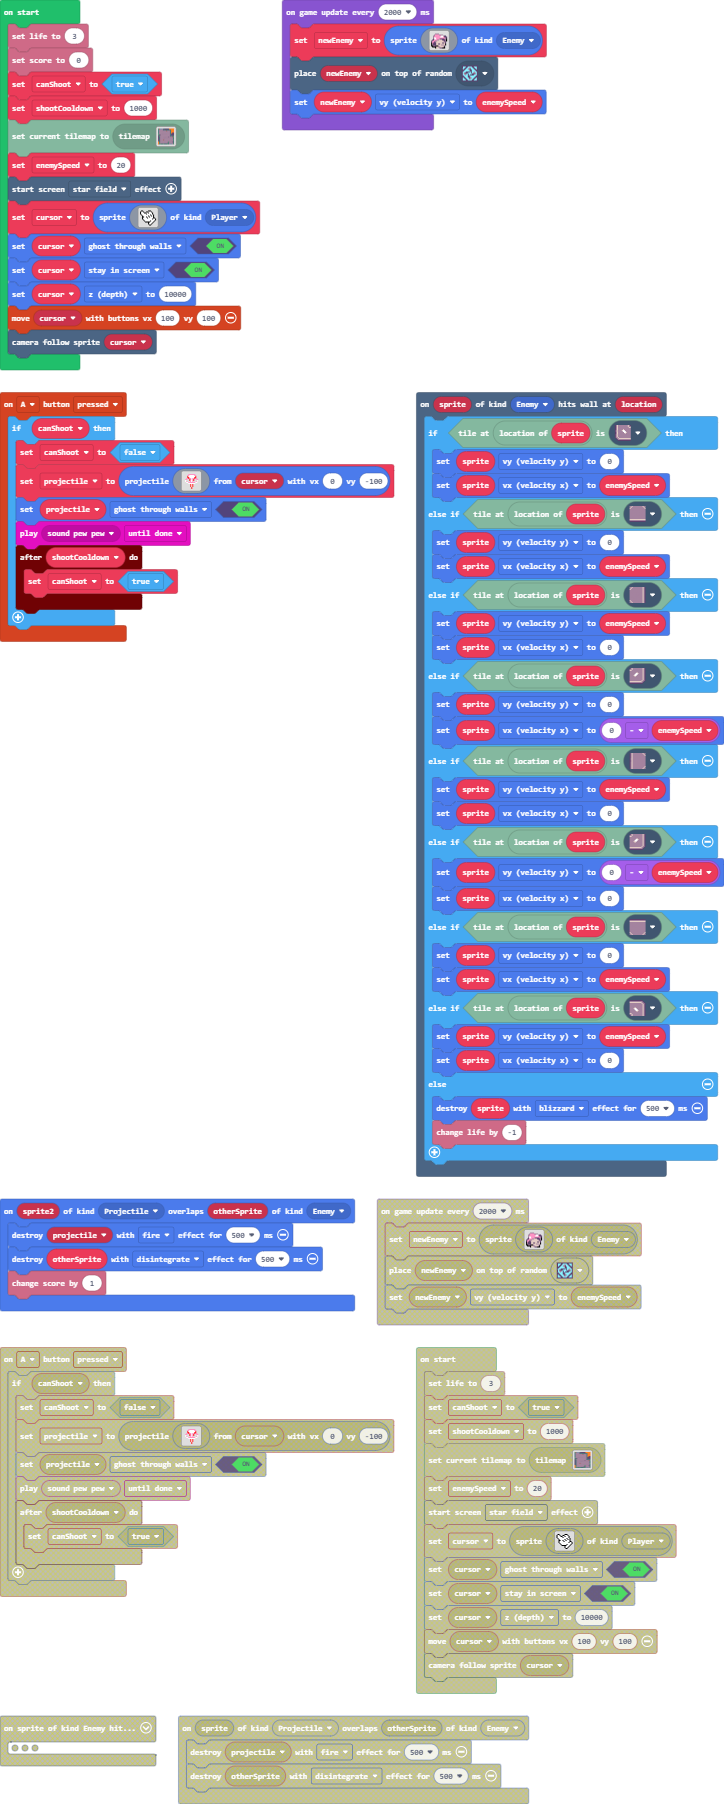
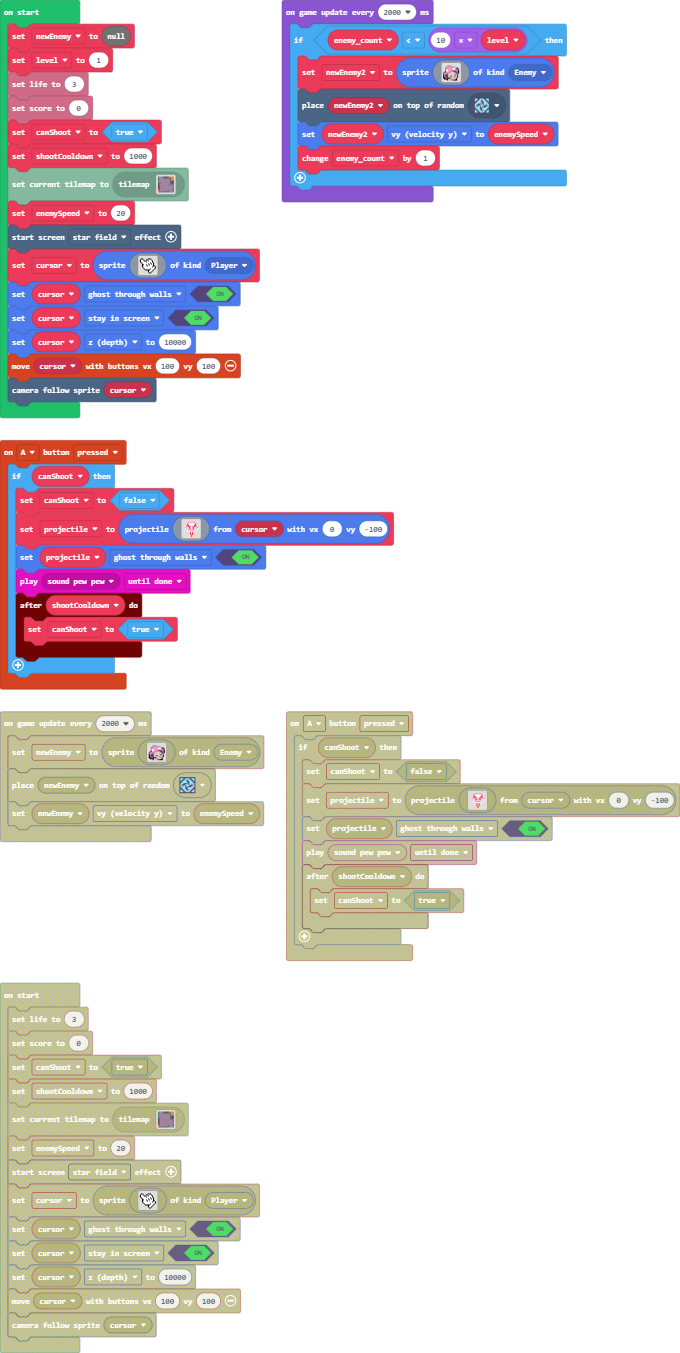
Enemies x level implemented

diff --git a/tilemap.g.ts b/tilemap.g.ts
@@ -128,6 +128,25 @@ namespace myTiles {
 2 2 2 2 2 2 2 2 2 2 2 2 . . 2 2 
 2 2 2 2 2 2 2 2 2 2 2 2 . . 2 2 
 `, [myTiles.transparency16,sprites.dungeon.floorDark0,sprites.dungeon.greenOuterWest0,sprites.dungeon.greenOuterSouthEast,sprites.dungeon.greenOuterSouth0,sprites.dungeon.greenOuterNorthEast,sprites.dungeon.greenInnerNorthEast,sprites.dungeon.greenOuterSouthWest,sprites.dungeon.greenOuterEast1,sprites.dungeon.greenOuterNorth1,sprites.dungeon.greenInnerSouthWest,sprites.dungeon.greenOuterEast0,sprites.dungeon.greenOuterNorth0,sprites.vehicle.roadIntersection2,sprites.vehicle.roadIntersection4,sprites.vehicle.roadIntersection1,sprites.vehicle.roadIntersection3,sprites.dungeon.greenSwitchUp,sprites.dungeon.greenOuterWest2,sprites.dungeon.greenOuterSouth2,sprites.dungeon.greenOuterEast2,sprites.dungeon.chestClosed,sprites.dungeon.floorDark4,sprites.dungeon.floorDark3,sprites.dungeon.darkGroundSouthWest0,sprites.dungeon.darkGroundSouth,sprites.dungeon.darkGroundNorthEast0,sprites.dungeon.darkGroundEast,sprites.dungeon.darkGroundSouthEast0,sprites.dungeon.hazardLava1,sprites.dungeon.darkGroundNorth,sprites.dungeon.darkGroundNorthWest0,sprites.dungeon.darkGroundCenter,sprites.dungeon.hazardLava0,myTiles.tile2,myTiles.tile5,sprites.vehicle.roadTurn3,sprites.vehicle.roadTurn2,sprites.vehicle.roadTurn4,sprites.vehicle.roadTurn1,myTiles.tile7], TileScale.Sixteen);
+            case "level7":
+            case "level7":return tiles.createTilemap(hex`1000100000000000000000000000000000000000000000000000000000000000000000000000000000000000000000000000000000000000000000000000000000000000000000000000000000000000000000000000000000000000000000000000000000000000000000000000000000000000000000000000000000000000000000000000000000000000000000000000000000000000000000000000000000000000000000000000000000000000000000000000000000000000000000000000000000000000000000000000000000000000000000000000000000000000000000000000000000000000000000000000000000000000000000000000000000000000`, img`
+. . . . . . . . . . . . . . . . 
+. . . . . . . . . . . . . . . . 
+. . . . . . . . . . . . . . . . 
+. . . . . . . . . . . . . . . . 
+. . . . . . . . . . . . . . . . 
+. . . . . . . . . . . . . . . . 
+. . . . . . . . . . . . . . . . 
+. . . . . . . . . . . . . . . . 
+. . . . . . . . . . . . . . . . 
+. . . . . . . . . . . . . . . . 
+. . . . . . . . . . . . . . . . 
+. . . . . . . . . . . . . . . . 
+. . . . . . . . . . . . . . . . 
+. . . . . . . . . . . . . . . . 
+. . . . . . . . . . . . . . . . 
+. . . . . . . . . . . . . . . . 
+`, [myTiles.transparency16], TileScale.Sixteen);
         }
         return null;
     })

diff --git a/main.ts b/main.ts
@@ -61,12 +61,15 @@ scene.onHitWall(SpriteKind.Enemy, function (sprite, location) {
         info.changeLifeBy(-1)
     }
 })
-let newEnemy: Sprite = null
+let newEnemy2: Sprite = null
+let enemy_count = 0
 let projectile: Sprite = null
 let cursor: Sprite = null
 let enemySpeed = 0
 let shootCooldown = 0
 let canShoot = false
+let newEnemy = null
+let level = 1
 info.setLife(3)
 info.setScore(0)
 canShoot = true
@@ -98,24 +101,27 @@ cursor.z = 10000
 controller.moveSprite(cursor, 100, 100)
 scene.cameraFollowSprite(cursor)
 game.onUpdateInterval(2000, function () {
-    newEnemy = sprites.create(img`
-        . . . . . . . . . . . . . . . . 
-        . . . . b b b b . . . . . . . . 
-        . . . b 3 3 3 3 b b b b . . . . 
-        . . b b 3 3 3 3 3 3 1 1 b c c . 
-        . . b 3 3 3 3 3 3 1 1 1 3 c c c 
-        . . b 1 1 3 3 3 3 3 3 3 3 3 b c 
-        . . c 1 1 3 3 3 b c c c c b b f 
-        . c c 3 3 3 b b d d d c c c b f 
-        c b 3 3 b b d d d d d d b c b f 
-        c 3 3 c b d d d d d d d d b c . 
-        f 3 c c c d d d d d d c c d c . 
-        f b c c c d d c c d d d d d f . 
-        f b c c c d d d d d b b b d f . 
-        f f b b c f f b d d d d d c . . 
-        . f f f f d d b b d d d b f . . 
-        . . . . f d d d b c c f f f . . 
-        `, SpriteKind.Enemy)
-    tiles.placeOnRandomTile(newEnemy, assets.tile`myTile0`)
-    newEnemy.vy = enemySpeed
+    if (enemy_count < 10 * level) {
+        newEnemy2 = sprites.create(img`
+            . . . . . . . . . . . . . . . . 
+            . . . . b b b b . . . . . . . . 
+            . . . b 3 3 3 3 b b b b . . . . 
+            . . b b 3 3 3 3 3 3 1 1 b c c . 
+            . . b 3 3 3 3 3 3 1 1 1 3 c c c 
+            . . b 1 1 3 3 3 3 3 3 3 3 3 b c 
+            . . c 1 1 3 3 3 b c c c c b b f 
+            . c c 3 3 3 b b d d d c c c b f 
+            c b 3 3 b b d d d d d d b c b f 
+            c 3 3 c b d d d d d d d d b c . 
+            f 3 c c c d d d d d d c c d c . 
+            f b c c c d d c c d d d d d f . 
+            f b c c c d d d d d b b b d f . 
+            f f b b c f f b d d d d d c . . 
+            . f f f f d d b b d d d b f . . 
+            . . . . f d d d b c c f f f . . 
+            `, SpriteKind.Enemy)
+        tiles.placeOnRandomTile(newEnemy2, assets.tile`myTile0`)
+        newEnemy2.vy = enemySpeed
+        enemy_count += 1
+    }
 })

diff --git a/main.py b/main.py
@@ -77,12 +77,15 @@ def on_hit_wall(sprite, location):
         info.change_life_by(-1)
 scene.on_hit_wall(SpriteKind.enemy, on_hit_wall)
 
-newEnemy: Sprite = None
+newEnemy2: Sprite = None
+enemy_count = 0
 projectile: Sprite = None
 cursor: Sprite = None
 enemySpeed = 0
 shootCooldown = 0
 canShoot = False
+newEnemy = None
+level = 1
 info.set_life(3)
 info.set_score(0)
 canShoot = True
@@ -118,28 +121,30 @@ controller.move_sprite(cursor, 100, 100)
 scene.camera_follow_sprite(cursor)
 
 def on_update_interval():
-    global newEnemy
-    newEnemy = sprites.create(img("""
-            . . . . . . . . . . . . . . . . 
-                    . . . . b b b b . . . . . . . . 
-                    . . . b 3 3 3 3 b b b b . . . . 
-                    . . b b 3 3 3 3 3 3 1 1 b c c . 
-                    . . b 3 3 3 3 3 3 1 1 1 3 c c c 
-                    . . b 1 1 3 3 3 3 3 3 3 3 3 b c 
-                    . . c 1 1 3 3 3 b c c c c b b f 
-                    . c c 3 3 3 b b d d d c c c b f 
-                    c b 3 3 b b d d d d d d b c b f 
-                    c 3 3 c b d d d d d d d d b c . 
-                    f 3 c c c d d d d d d c c d c . 
-                    f b c c c d d c c d d d d d f . 
-                    f b c c c d d d d d b b b d f . 
-                    f f b b c f f b d d d d d c . . 
-                    . f f f f d d b b d d d b f . . 
-                    . . . . f d d d b c c f f f . .
-        """),
-        SpriteKind.enemy)
-    tiles.place_on_random_tile(newEnemy, assets.tile("""
-        myTile0
-    """))
-    newEnemy.vy = enemySpeed
+    global newEnemy2, enemy_count
+    if enemy_count < 10 * level:
+        newEnemy2 = sprites.create(img("""
+                . . . . . . . . . . . . . . . . 
+                            . . . . b b b b . . . . . . . . 
+                            . . . b 3 3 3 3 b b b b . . . . 
+                            . . b b 3 3 3 3 3 3 1 1 b c c . 
+                            . . b 3 3 3 3 3 3 1 1 1 3 c c c 
+                            . . b 1 1 3 3 3 3 3 3 3 3 3 b c 
+                            . . c 1 1 3 3 3 b c c c c b b f 
+                            . c c 3 3 3 b b d d d c c c b f 
+                            c b 3 3 b b d d d d d d b c b f 
+                            c 3 3 c b d d d d d d d d b c . 
+                            f 3 c c c d d d d d d c c d c . 
+                            f b c c c d d c c d d d d d f . 
+                            f b c c c d d d d d b b b d f . 
+                            f f b b c f f b d d d d d c . . 
+                            . f f f f d d b b d d d b f . . 
+                            . . . . f d d d b c c f f f . .
+            """),
+            SpriteKind.enemy)
+        tiles.place_on_random_tile(newEnemy2, assets.tile("""
+            myTile0
+        """))
+        newEnemy2.vy = enemySpeed
+        enemy_count += 1
 game.on_update_interval(2000, on_update_interval)
